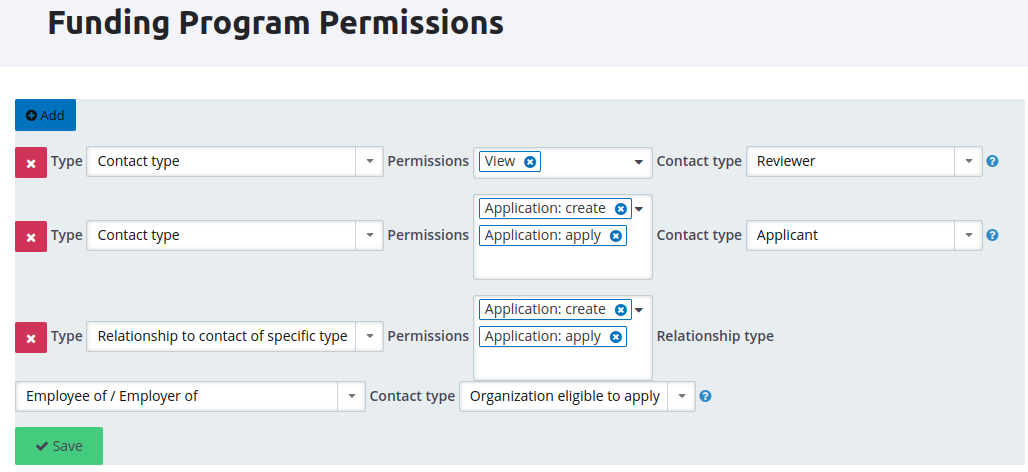
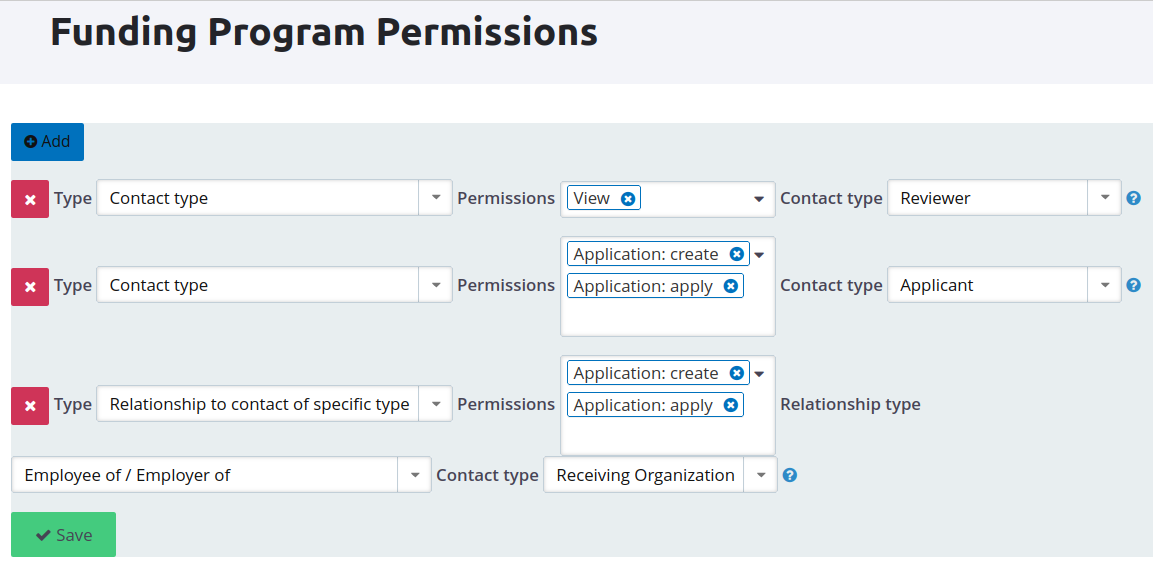
rework section 'users and permissions'

diff --git a/docs/user-permissions.md b/docs/user-permissions.md
@@ -1,13 +1,10 @@
 # Users and permissions
 
-In a funding program and for a specific funding case, different people from the giving and applying organisation are involved. These people have different roles that come with different permissions regarding the funding case, for example creating an application or rejecting it.
+In a funding program and for a specific funding case, different people from the giving organisation might be involved. If the receiving contact is an organisation, there might be different people interacting with the funding case as well. These people have different roles that come with different permissions regarding the funding case, for example creating an application or rejecting it.
 
-### Permissions within the giving organisation
+### Permissions for the giving organisation
 
-We assume that your organisation is the giving organisation and that it is configured to be the default organisation of your CiviCRM instance, namely the organisation specified at `civicrm/admin/domain` with Contact-Id 1.
-
-!!! question
-    Is my assumption about the giving organization correct? Is it important to specify this at all?
+The giving organisation is the organisation that operates CiviCRM. Therefore, it should be configured as the default organisation of CiviCRM, namely the organisation specified at `civicrm/admin/domain` with contact id `1`.
 
 Within each funding program, you can configure roles that have different permission sets. You can assign permissions to specific contacts, contact types or contacts that have a relationship to a specific contact or contact type. In the last case, you need to specify the relationship type.
 
@@ -21,19 +18,20 @@ The following permissions exist:
 
 A typical example would be a separation in three roles:
 
-- The **content reviewer** checks the content of an application ... . They have the permission "Application: view", "Application: request rework" and "Review: content".
-- The **calculative reviewer** checks weather the amount of money ... . They have the permission "Application: view", "Application: request rework" and "Review: calculative".
+- The **content reviewer** checks the content of an application. They have the permission "Application: view", "Application: request rework" and "Review: content".
+- The **calculative reviewer** checks the financial calculations of an application. They have the permission "Application: view", "Application: request rework" and "Review: calculative".
 - The **drawdown reviewer** checks if the funding of an accepted application have been called up. They have the permission "Application: view" and "Review: drawdown".
-
-For a description of what the permissions mean in detail, see the section about the workflow of a funding case.
 
 If your funding program is big and allows for applications in different thematic areas, you might want to assign one of your employees to be the content reviewer for topic A and another employee to be the content reviewer for topic B. To allow for this or other specific needs, the permissions are set on a case by case basis and not for the whole funding program. You will need to configure an initial permission set that is applied automatically for each new application. Additionally, it is possible to change the permissions for specific funding applications.
 
-### Permissions within the receiving organisation
+!!! question
+    Is this example realistic?
 
-An organisation that applies for a funding and maybe receives money might have different members that interact with your organisation during the process.
+### Permissions for the receiving contact
 
-Also in this case there exist different permissions that can be assigned to specific contacts or groups of contacts. The following permissions exist:
+The contact that applies for a funding and maybe receives money has different permissions. There exist multiple separate permissions, because the receiving contact might be an organisation and different people within that organisation might be entrusted with different tasks.
+
+The following permissions exist and can be assigned to specific contacts / groups of contacts / contacts with specific relationships:
 
 - Application: create
 - Application: view
@@ -41,11 +39,6 @@ Also in this case there exist different permissions that can be assigned to spec
 - Application: apply
 - Application: withdraw
 - Drawdown: create
-
-As an example consider the following situation:
-
-- The **main applicant** is responsible for the final application and has all permissions listed above, including applying and withdrawing the application.
-- The **applicant assistant** can help with the content of the application and has the permission "Application: modify".
 
 ### Configure permissions
 
@@ -57,16 +50,18 @@ Open the funding program overview at **Funding** → **Funding Programs** and ch
 
 Add permissions for CiviCRM users or user groups.
 
-- Contacts with the permission **Application: create** will be able to create and edit an application for this funding program
-- Contacts with the permission **Application: apply** will be able to send the finalized application to your organization
-- Contacts with the permission **View** can view all applications of this funding program
+- Contacts with the permission **Application: create** will be able to create a new application for this funding program
+- Contacts with the permission **Application: apply** will be able to send the finalized application to the giving organization
+- Contacts with the permission **View** can view all applications of this funding program.
+
+The permissions **Application: create** and **Application: apply** both implicitly include the permission **View**.
 
 A configuration could look like this:
 
 !["Example configuration of permissions on funding program level"](./img/permissions_funding_program.png )
 
 !!! question
-    How are these permissions related to the permissions on the level of a funding case?
+    Are the screenshots a good example?
 
 #### Funding case
 
@@ -81,13 +76,14 @@ To alter the permissions of a specific funding case, open the funding case list 
 
 #### CiviRemote roles
 
-Every person you want to give any of the permissions listed above needs to have a drupal user account. This refers to reviewers of your organisation as well as applicants of external organisations. You manually need to add CiviRemote Roles to these user accounts.
+Every person you want to give any of the permissions listed above needs to have a drupal user account. This refers to reviewers of the giving organisation as well as individuals or members of external organisations that want to apply for the funding. You manually need to add CiviRemote roles to these user accounts.
 
 Every drupal user is mapped to a CiviCRM contact. To assign a CiviRemote role, open the summary of the CiviCRM contact and edit the field set **RemoteContact Information**.
+
 - for reviewers add the role **CiviRemote User**.
-- for applicants add the roles **CiviRemote User** and **CiviRemote Funding**.
+- for receiving contacts add the roles **CiviRemote User** and **CiviRemote Funding**.
 
 !!! note
-    If you cannot find the roles **CiviRemote User** or **CiviRemote Funding**, open the drupal user overview at `admin/people`, select the user and perform the action **CiviRemote: Match contact(s)** and afterward **CiviRemote: Synchronise CiviRemote roles**.
+    The roles are automatically synchronised with the Drupal user account during login. If there are problems with the synchronisation, open the drupal user overview at `admin/people`. Select the user that you want to assign the roles to and perform the action **CiviRemote: Match contact(s)** and afterward **CiviRemote: Synchronise CiviRemote roles**.
 
 

diff --git a/docs/installation.md b/docs/installation.md
@@ -172,6 +172,10 @@ CiviRemote will synchronise permissions that are set for a CiviCRM contact with 
 You should now see the roles listed for the test user. You can delete the test user if you don't need it anymore.
 For any other users you create, the roles selected in CiviCRM at **RemoteContact Information** will be automatically synchronised during the login of that user.
 
+## Configure Dashboard
+
+Open the basic site settings at `admin/config/system/site-information` and enter `/civiremote/funding` in the field for the default front page.
+
 ## Create templates
 
 ## transfer contract template
